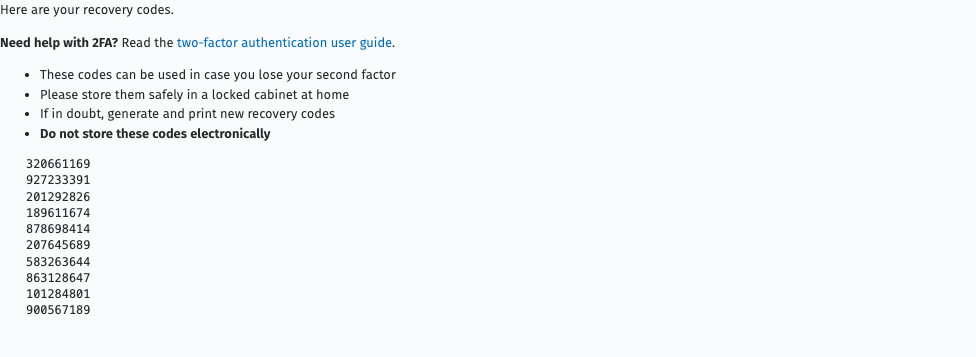
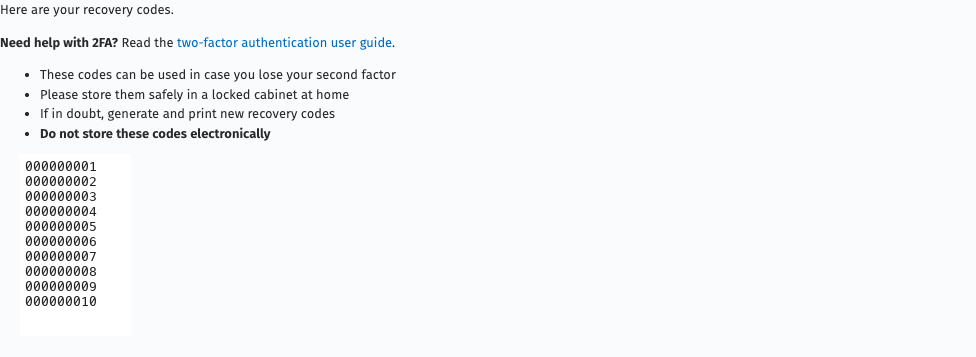
Bug 1224099 - Address MFA guide review feedback

Changed region(s): [[0.0, 0.4314, 0.123, 0.8936]]

diff --git a/docs/en/rst/using/two-factor-authentication.rst b/docs/en/rst/using/two-factor-authentication.rst
@@ -32,6 +32,21 @@ Applications and scripts that use the BMO API should authenticate with an
 :ref:`API key <api-keys>` instead of your password. You can turn this preference
 off after verifying with your second factor, but doing so is not recommended.
 
+.. _required-two-factor-enrollment:
+
+Required 2FA Enrollment
+=======================
+
+If BMO displays a 2FA enrollment deadline, enable 2FA before the date shown.
+After that deadline, BMO restricts your account to the 2FA preferences page
+until enrollment is complete.
+
+Some accounts are required to use Duo. If an account is used for automation
+and Duo is not appropriate, `file a bug in the bugzilla.mozilla.org
+Administration component
+<https://bugzilla.mozilla.org/enter_bug.cgi?product=bugzilla.mozilla.org&component=Administration>`_
+with details about the bot and its requirements to request an exception.
+
 .. _choose-two-factor-method:
 
 Choose a Method
@@ -75,8 +90,9 @@ application, but the enrollment process is the same:
    QR code. Allow camera access if the application requests it.
 #. Point the device's camera at the QR code shown by BMO. The application should
    add a BMO entry and begin showing a new six-digit code every 30 seconds.
-#. If you cannot scan the QR code, use the option below it to display the secret,
-   then choose manual entry in your TOTP application and enter that secret.
+#. If you cannot scan the QR code, click :guilabel:`Show as text` above it to
+   display the secret, then choose manual entry in your TOTP application and
+   enter that secret.
 #. Enter the six-digit code shown by your TOTP application.
 #. Click :guilabel:`Submit Changes`.
 
@@ -150,6 +166,8 @@ after enabling TOTP.
 #. Click :guilabel:`Generate Printable Recovery Codes`.
 #. Enter your current password and either a current TOTP code or an unused
    recovery code.
+#. Click :guilabel:`Generate Printable Recovery Codes` again to submit the
+   form.
 #. Print the codes and store them in a secure offline location.
 
 .. figure:: ../../images/mfa-enabled.png
@@ -180,6 +198,8 @@ Service Desk`_ if none of those methods are available.
 Troubleshooting
 ===============
 
+.. _two-factor-totp-code-rejected:
+
 TOTP Code Is Rejected
 ---------------------
 
@@ -197,6 +217,8 @@ recovery code to :ref:`disable and re-enable TOTP
 codes: one to sign in and another to disable TOTP. Otherwise, contact the BMO
 administrators.
 
+.. _two-factor-duo-prompt-not-load:
+
 Duo Prompt Does Not Load
 ------------------------
 
@@ -206,6 +228,8 @@ that the Duo username configured in BMO belongs to your Mozilla account.
 
 If the prompt still does not load, or none of your enrolled Duo methods is
 available, contact `Mozilla Service Desk`_.
+
+.. _two-factor-no-method-available:
 
 No 2FA Method Is Available
 --------------------------
@@ -225,7 +249,8 @@ If you use TOTP and have recovery codes:
 #. Sign in with your password and one unused recovery code.
 #. Open the :guilabel:`Two-Factor Authentication` preferences tab.
 #. Click :guilabel:`Disable Two-factor Authentication`.
-#. Verify with another unused recovery code.
+#. Enter your current password and verify with another unused recovery code.
+#. Click :guilabel:`Submit Changes`.
 #. Enable 2FA again with your replacement device and generate a new set of
    recovery codes.
 
@@ -254,8 +279,12 @@ your current session active. You can also review and end sessions from BMO's
 `Sessions preferences
 <https://bugzilla.mozilla.org/userprefs.cgi?tab=sessions>`_.
 
+.. _two-factor-frequently-asked-questions:
+
 Frequently Asked Questions
 ==========================
+
+.. _two-factor-move-totp-new-device:
 
 Can I Move TOTP to a New Device?
 --------------------------------
@@ -266,6 +295,8 @@ removing the old entry. Otherwise, disable TOTP while the old device still
 works, enable it again with the new device, and generate new recovery codes.
 BMO does not display the original TOTP secret again after enrollment.
 
+.. _two-factor-store-totp-password-manager:
+
 Can I Store TOTP in My Password Manager?
 ----------------------------------------
 
@@ -274,6 +305,8 @@ second factor in the same security boundary. A separate TOTP application or
 device provides stronger protection if your password manager is compromised.
 Whichever approach you choose, keep recovery codes separately in a secure
 offline location.
+
+.. _two-factor-api-client-stopped-working:
 
 Why Did My API Client Stop Working?
 -----------------------------------
